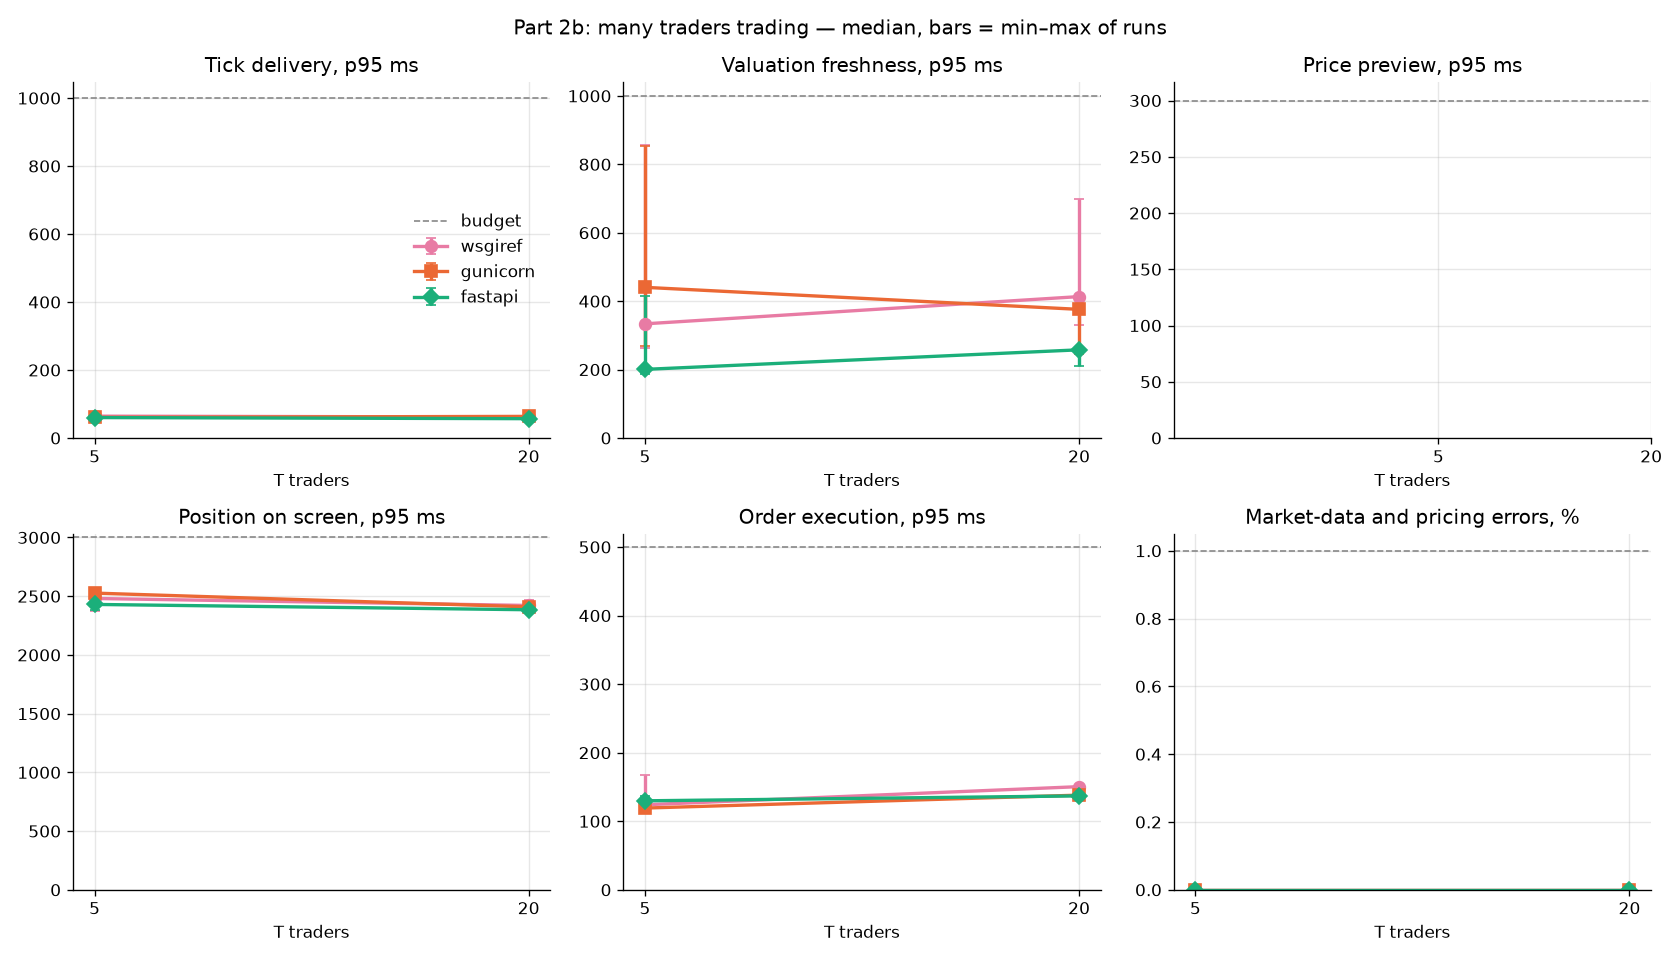
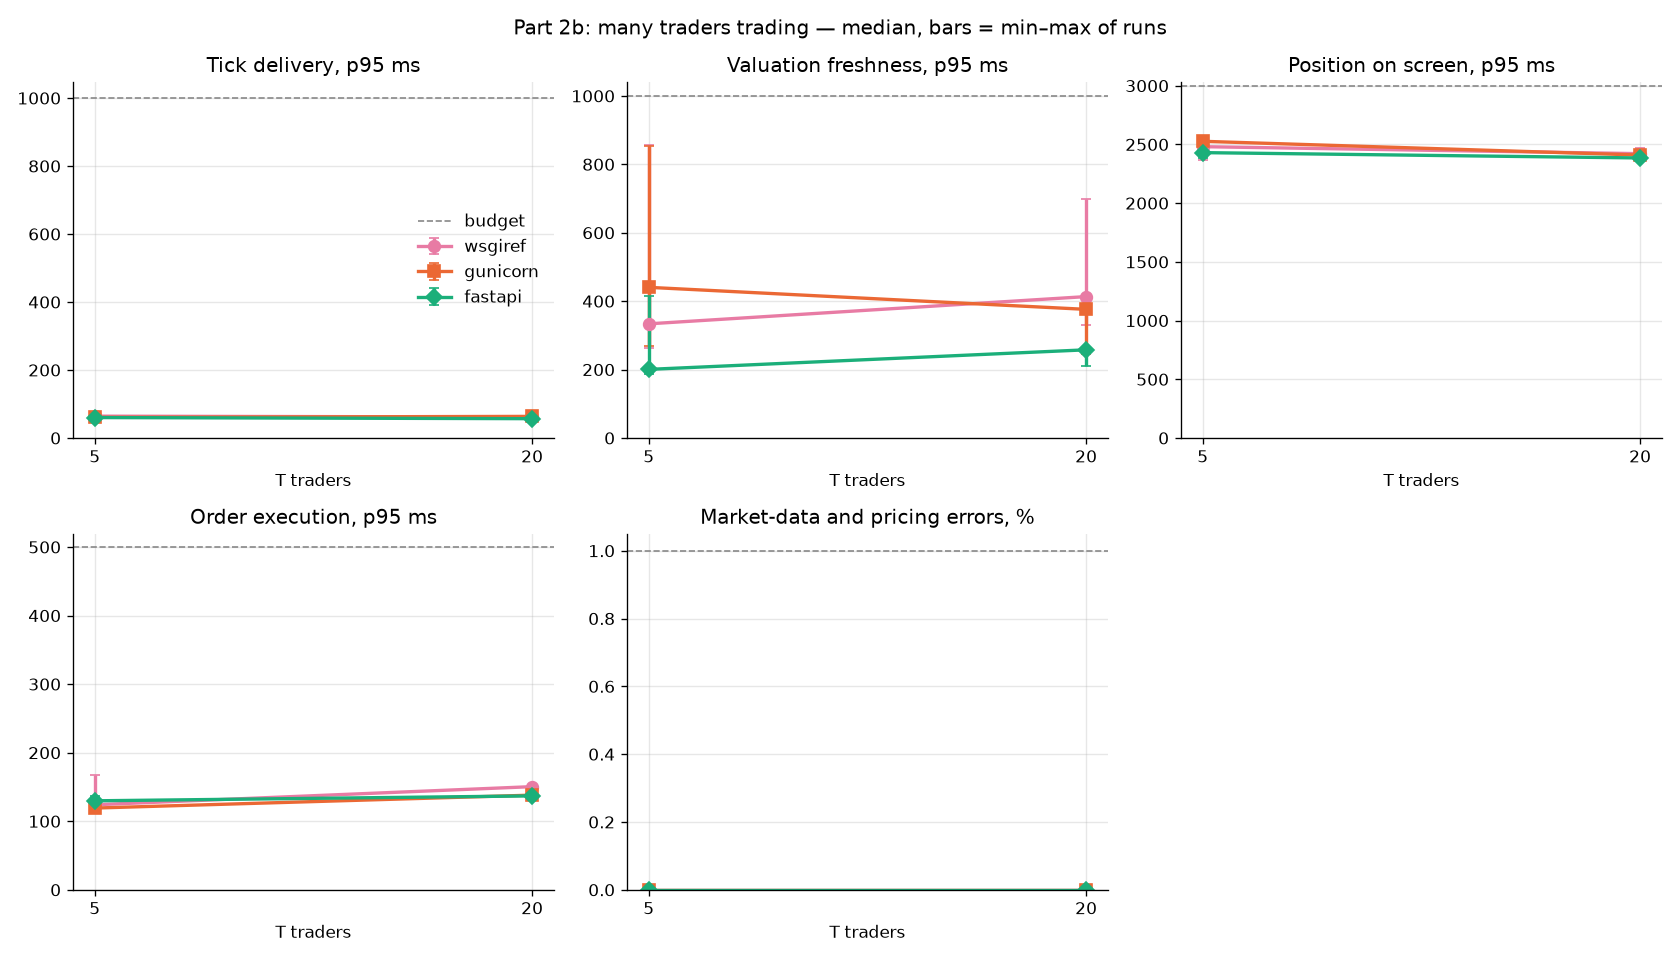
part 2b: skip empty chart panel

diff --git a/benchmark/desk_day/analyze_desk.py b/benchmark/desk_day/analyze_desk.py
@@ -244,7 +244,11 @@ def plot(ax, points, levels, axis, metric, title, budget=None):
 def charts(points, levels, axis, heading):
     (RESULTS / "charts").mkdir(exist_ok=True)
     latency, axes = plt.subplots(2, 3, figsize=(14, 8))
-    for ax, metric in zip(axes.flat, ("tick", "valuation", "preview", "position", "execution", "md_errors")):
+    metrics = [m for m in ("tick", "valuation", "preview", "position", "execution", "md_errors")
+               if any(point[m] for point in points.values())]
+    for ax in axes.flat[len(metrics):]:
+        ax.set_visible(False)
+    for ax, metric in zip(axes.flat, metrics):
         unit = ", %" if metric == "md_errors" else ", p95 ms"
         plot(ax, points, levels, axis, metric, TITLES[metric] + unit, BUDGETS[metric])
     latency.suptitle(f"{heading} — median, bars = min–max of runs")
